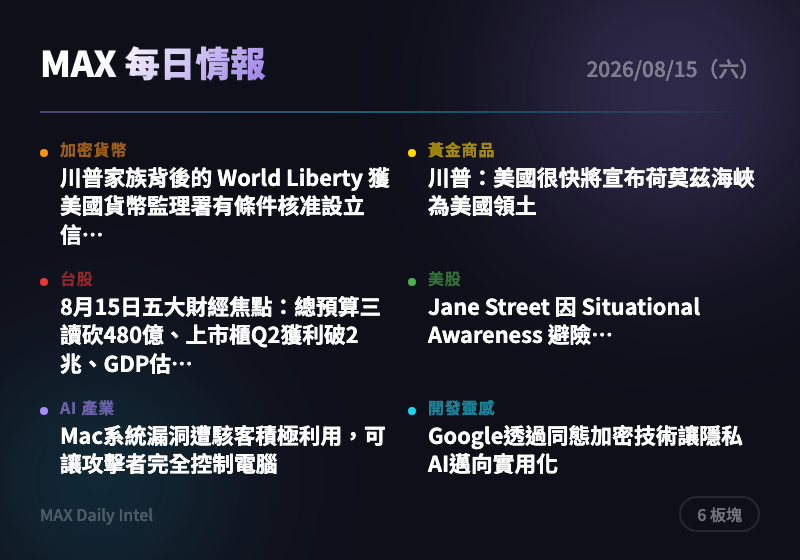
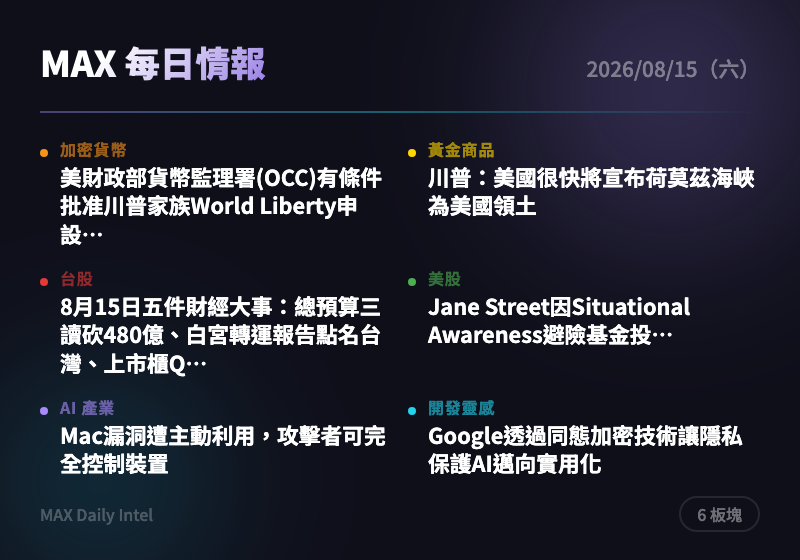
intel: 2026-08-15 每日情報自動生成

diff --git a/docs/2026-08-15.html b/docs/2026-08-15.html
@@ -295,7 +295,7 @@
     <h1>每日情報站</h1>
     <div class="date">2026 年 8 月 15 日（六）</div>
     <div class="stats">
-      <span>11 則情報</span>
+      <span>12 則情報</span>
       <span>7 大板塊</span>
     </div>
   </header>
@@ -318,15 +318,15 @@
     </div>
     <div class="news-card">
       <div class="source">The Block</div>
-      <h3><a href="https://www.theblock.co/news/regulation/2026-08-14-occ-grants-conditional-approval-trump-world-liberty-national-trust-bank-411906" target="_blank" rel="noopener">川普家族背後的 World Liberty 獲美國貨幣監理署有條件核准設立信託銀行</a></h3>
-      <div class="summary">OCC 週五對 Trump 支持的 World Liberty Financial 發出有條件核准，讓其得以成立全國性信託銀行。這是加密貨幣業者首次獲得聯邦銀行牌照，象徵加密與傳統金融監管的融合進一步加深，也凸顯川普政府對加密產業的政策傾斜。建議關注後續正式核准進度及是否引發利益衝突爭議。</div>
-      <div class="tags"><span class="tag">監管</span><span class="tag">川普</span><span class="tag">銀行牌照</span><span class="tag">穩定幣</span></div>
+      <h3><a href="https://www.theblock.co/news/regulation/2026-08-14-occ-grants-conditional-approval-trump-world-liberty-national-trust-bank-411906" target="_blank" rel="noopener">美財政部貨幣監理署(OCC)有條件批准川普家族World Liberty申設全國信託銀行</a></h3>
+      <div class="summary">美國貨幣監理署（OCC）於週五對川普支持的加密貨幣企業World Liberty Financial的全國信託銀行申請給予有條件批准。此舉代表加密貨幣產業首次獲得美國聯邦銀行牌照的重大突破，象徵加密資產與傳統金融體系加速融合，也凸顯川普政府對加密產業的政策傾斜。建議關注後續正式核准進度與利益衝突爭議發展。</div>
+      <div class="tags"><span class="tag">監管</span><span class="tag">加密貨幣</span><span class="tag">川普</span><span class="tag">銀行牌照</span></div>
     </div>
     <div class="news-card">
       <div class="source">The Block</div>
-      <h3><a href="https://www.theblock.co/news/markets/2026-08-14-mizuho-cuts-bitgo-price-target-to-11-but-says-clarity-act-delays-could-prove-advantageous-411878" target="_blank" rel="noopener">瑞穗下調 BitGo 目標價至 11 美元，但稱 Clarity Act 延宕可能反而有利</a></h3>
-      <div class="summary">瑞穗證券將 BitGo 目標價調降，但同時指出美國《Clarity Act》立法延遲反而可能對公司有利。分析師仍視 BitGo 為「高成長、經常性收入」業務，客戶數年增 27%。反映機構對加密託管股評價分歧，但基本面成長趨勢未變。</div>
-      <div class="tags"><span class="tag">加密貨幣</span><span class="tag">託管</span><span class="tag">分析師評等</span><span class="tag">監管</span></div>
+      <h3><a href="https://www.theblock.co/news/markets/2026-08-14-mizuho-cuts-bitgo-price-target-to-11-but-says-clarity-act-delays-could-prove-advantageous-411878" target="_blank" rel="noopener">瑞穗證券下調BitGo目標價至11美元，但稱Clarity法案延遲反而有利</a></h3>
+      <div class="summary">瑞穗證券將BitGo的目標價下修至11美元，但同時指出美國《Clarity法案》立法延遲對其商業模式反而有利。分析師視BitGo為「高成長、經常性收入」企業，客戶數年增27%，顯示機構級加密託管業務仍具成長動能。建議留意監管立法時程對加密託管股評價的影響。</div>
+      <div class="tags"><span class="tag">加密貨幣</span><span class="tag">分析師評等</span><span class="tag">監管</span><span class="tag">機構託管</span></div>
     </div>
   </section>
 
@@ -339,14 +339,14 @@
     <div class="news-card">
       <div class="source">ForexLive</div>
       <h3><a href="https://investinglive.com/news/trump-pretty-soon-will-be-declaring-strait-of-hormuz-territory-of-the-us/" target="_blank" rel="noopener">川普：美國很快將宣布荷莫茲海峽為美國領土</a></h3>
-      <div class="summary">川普表示美國即將宣布荷莫茲海峽為美國領土，並警告伊朗若採取侵略行動將遭受百倍反擊，同時稱封鎖行為「無法阻擋」。此番強硬言論大幅升高中東地緣政治風險，可能推升原油與黃金避險需求。建議留意油價與金價聯動走勢，並提防地緣衝突進一步升級。</div>
-      <div class="tags"><span class="tag">地緣政治</span><span class="tag">原油</span><span class="tag">伊朗</span><span class="tag">避險</span></div>
+      <div class="summary">川普表示美國即將宣布荷莫茲海峽為美國領土，並警告若伊朗採取侵略行動將遭受百倍反擊，強調美國將自行決定船隻通行權，稱封鎖行動「無法阻擋」。此言論大幅升高中東地緣政治風險，直接牽動全球原油供應與運輸安全，是近期推升油價與避險資產（黃金）需求的關鑽變數。建議密切關注美伊局勢升溫對油價與黃金避險買盤的連鎖效應。</div>
+      <div class="tags"><span class="tag">地緣政治</span><span class="tag">原油</span><span class="tag">避險資產</span><span class="tag">中東局勢</span></div>
     </div>
     <div class="news-card">
       <div class="source">ForexLive</div>
       <h3><a href="https://investinglive.com/news/us-august-prelim-umich-consumer-sentiment-51-0-vs-54-5-expected/" target="_blank" rel="noopener">美國8月密西根大學消費者信心初值降至51.0，遠低於預期54.5</a></h3>
-      <div class="summary">密西根大學消費者信心指數大幅不及預期，一年期通膨預期升至4.3%，顯示消費者對物價與經濟前景轉趨悲觀。雖然市場普遍認為該調查已受政治因素干擾、參考價值降低，但通膨預期上升仍可能影響聯準會決策路徑。建議關注後續零售銷售與就業數據以交叉驗證。</div>
-      <div class="tags"><span class="tag">消費者信心</span><span class="tag">通膨</span><span class="tag">聯準會</span><span class="tag">美國經濟</span></div>
+      <div class="summary">美國8月密西根大學消費者信心指數初值僅51.0，大幅不如市場預期的54.5，且低於前值55.2，其中現況與預期分項雙雙下滑，同時1年期通膨預期升至4.3%。此數據顯示消費者對經濟前景轉趨悲觀，儘管市場普遍認為該調查易受政治因素干擾、預測力有限，仍可能影響市場對聯準會政策路徑與黃金避險需求的判斷。建議留意後續零售銷售與通膨數據是否印證消費疲軟趨勢。</div>
+      <div class="tags"><span class="tag">經濟數據</span><span class="tag">消費者信心</span><span class="tag">通膨</span><span class="tag">聯準會</span></div>
     </div>
   </section>
 
@@ -358,15 +358,15 @@
     </div>
     <div class="news-card">
       <div class="source">經濟日報</div>
-      <h3><a href="https://money.udn.com/money/story/5607/9692762" target="_blank" rel="noopener">8月15日五大財經焦點：總預算三讀砍480億、上市櫃Q2獲利破2兆、GDP估上修至11.05%</a></h3>
-      <div class="summary">立法院三讀通過2026年度中央政府總預算並刪減480億元，同時上市櫃公司第2季稅後純益首度突破2兆元、季增三成，主計總處更大幅上修今年經濟成長率至11.05%，創39年新高。多項數據顯示AI熱潮持續帶動台灣經濟與企業獲利同步強勁成長。建議關注財報優異、受惠AI供應鏈的個股後續評價修正空間。</div>
-      <div class="tags"><span class="tag">台股</span><span class="tag">總預算</span><span class="tag">經濟成長</span><span class="tag">AI</span></div>
+      <h3><a href="https://money.udn.com/money/story/5607/9692762" target="_blank" rel="noopener">8月15日五件財經大事：總預算三讀砍480億、白宮轉運報告點名台灣、上市櫃Q2獲利破2兆創高</a></h3>
+      <div class="summary">立法院三讀通過2026年度中央政府總預算，總刪減480億元；白宮發布「轉運大騙局」報告指控台日韓等40餘國協助陸企規避關稅；上市櫃公司Q2稅後純益首度衝破2兆元、季增三成，創EPS新高家數達175家；主計總處大幅上修今年經濟成長率至11.05%、人均GDP達4.5萬美元，創39年新高。多項數據顯示台灣經濟受AI熱潮強力帶動但也面臨對美關稅風險升溫。建議關注白宮轉運報告後續對台美貿易談判的影響，同時留意企業獲利高基期下的評價修正風險。</div>
+      <div class="tags"><span class="tag">台股</span><span class="tag">總預算</span><span class="tag">關稅</span><span class="tag">企業獲利</span></div>
     </div>
     <div class="news-card">
       <div class="source">經濟日報</div>
-      <h3><a href="https://money.udn.com/money/story/5607/9692752" target="_blank" rel="noopener">外資本周狂買2,061億元，力積電獲買超逾31萬張居冠</a></h3>
-      <div class="summary">台股本周雖回落至45,811點、失守46,000點大關，但外資連日買超累計逾2,061億元，力積電成為外資本周買超冠軍，華新、中鋼也獲外資青睞。顯示外資對台灣半導體與傳產股信心回升，法人看好指數可望逐步挑戰前高48,000點。建議關注外資持續回補動能是否延續至下周。</div>
-      <div class="tags"><span class="tag">台股</span><span class="tag">外資</span><span class="tag">半導體</span><span class="tag">資金流向</span></div>
+      <h3><a href="https://money.udn.com/money/story/5607/9692752" target="_blank" rel="noopener">外資本周狂買2,061億元，力積電獲買超31萬張居冠</a></h3>
+      <div class="summary">台股本周三大法人及外資連日買超，累計外資買超金額達2,061億元，其中力積電（6770）獲外資買超31萬張排名第一，華新、中鋼亦擠進外資買超前十大。台股本周上漲1,585點、漲幅3.58%，惟14日在46,000點關卡遇壓拉回下跌210點收45,811點。外資積極回補顯示對台股後市偏多，法人看好指數可望逐步向前波高點48K推進。建議關注外資資金持續性及力積電等半導體記憶體族群的補漲行情。</div>
+      <div class="tags"><span class="tag">台股</span><span class="tag">外資動向</span><span class="tag">半導體</span><span class="tag">資金流向</span></div>
     </div>
   </section>
 
@@ -378,15 +378,15 @@
     </div>
     <div class="news-card">
       <div class="source">WSJ Markets</div>
-      <h3><a href="https://www.wsj.com/finance/investing/jane-street-suffers-loss-of-about-15-billion-due-to-troubles-at-situation-awareness-9be40c51?mod=rss_markets_main" target="_blank" rel="noopener">Jane Street 因 Situational Awareness 避險基金失利，單月虧損約150億美元</a></h3>
-      <div class="summary">知名量化交易公司 Jane Street 因投資 Leopold Aschenbrenner 旗下避險基金 Situational Awareness 押注失利，導致7月出現史上最差單月表現，損失約150億美元。此事件凸顯即便頂尖量化機構也可能因集中押注特定題材（如AI相關）而承受巨大風險。建議關注是否引發連鎖流動性或保證金追繳效應。</div>
-      <div class="tags"><span class="tag">對沖基金</span><span class="tag">量化交易</span><span class="tag">AI</span><span class="tag">虧損</span></div>
+      <h3><a href="https://www.wsj.com/finance/investing/jane-street-suffers-loss-of-about-15-billion-due-to-troubles-at-situation-awareness-9be40c51?mod=rss_markets_main" target="_blank" rel="noopener">Jane Street因Situational Awareness避險基金投資失利，單月虧損近150億美元</a></h3>
+      <div class="summary">頂尖量化交易公司Jane Street因對Leopold Aschenbrenner旗下避險基金Situational Awareness的投資失利，7月出現史上最差單月表現，損失規模高達約150億美元。此事件顯示即便是華爾街最頂尖的量化交易機構，在AI相關題材投資上也可能面臨鉅額虧損，凸顯市場對AI概念投資過熱的潛在風險。建議關注事件是否引發更廣泛的避險基金去槓桿效應及AI類股資金流動變化。</div>
+      <div class="tags"><span class="tag">對沖基金</span><span class="tag">AI</span><span class="tag">鉅額虧損</span><span class="tag">量化交易</span></div>
     </div>
     <div class="news-card">
       <div class="source">WSJ Markets</div>
-      <h3><a href="https://www.wsj.com/finance/stocks/berkshire-adds-to-alphabet-stake-buys-homebuilders-and-exits-constellation-746a5bdc?mod=rss_markets_main" target="_blank" rel="noopener">波克夏Q2加碼Alphabet、買進建商股並出清Constellation Energy持股</a></h3>
-      <div class="summary">波克夏最新13F揭露，執行長Greg Abel在第二季加碼Google母公司Alphabet、買進房屋建商股，同時降低金融股部位並全數出清Constellation Energy。此舉反映波克夏對美國房市與AI巨頭前景的看法轉趨正面，同時對能源類股保持謹慎。建議關注波克夏後續持股調整是否預示市場輪動方向。</div>
-      <div class="tags"><span class="tag">波克夏</span><span class="tag">13F</span><span class="tag">Alphabet</span><span class="tag">房市</span></div>
+      <h3><a href="https://www.wsj.com/finance/stocks/berkshire-adds-to-alphabet-stake-buys-homebuilders-and-exits-constellation-746a5bdc?mod=rss_markets_main" target="_blank" rel="noopener">波克夏加碼Alphabet持股，買進建商股並出清Constellation Energy</a></h3>
+      <div class="summary">波克夏海瑟威（Berkshire Hathaway）在最新13F持股報告中加碼Alphabet（Google母公司）股票，同時買進多檔建商股展現對美國房市的樂觀看法，並清倉出售Constellation Energy持股。此為執行長Greg Abel接掌選股決策後的重要動向，同時該公司也減碼了金融類股部位，顯示投資組合配置正在轉向。建議關注波克夏對科技股與房市類股佈局變化，作為觀察機構資金風向的重要指標。</div>
+      <div class="tags"><span class="tag">波克夏</span><span class="tag">機構持股</span><span class="tag">房市</span><span class="tag">科技股</span></div>
     </div>
   </section>
 
@@ -398,15 +398,15 @@
     </div>
     <div class="news-card">
       <div class="source">Ars Technica AI</div>
-      <h3><a href="https://arstechnica.com/security/2026/08/vulnerability-giving-attackers-full-control-of-macs-is-under-active-exploitation/" target="_blank" rel="noopener">Mac系統漏洞遭駭客積極利用，可讓攻擊者完全控制電腦</a></h3>
-      <div class="summary">一個存在於螢幕共享功能的安全漏洞正遭到駭客積極利用，讓遠端攻擊者無需密碼即可登入受害者的Mac電腦。此漏洞風險極高，因為攻擊者能取得系統完全控制權。建議Mac用戶儘速確認系統更新狀態並停用非必要的螢幕共享功能。</div>
+      <h3><a href="https://arstechnica.com/security/2026/08/vulnerability-giving-attackers-full-control-of-macs-is-under-active-exploitation/" target="_blank" rel="noopener">Mac漏洞遭主動利用，攻擊者可完全控制裝置</a></h3>
+      <div class="summary">一項存在於Mac螢幕共享功能的安全漏洞正遭到駭客主動利用，讓遠端攻擊者無需密碼即可登入並完全控制受害裝置。此漏洞屬於嚴重安全性風險，目前已確認有實際攻擊案例發生，對企業及個人Mac用戶構成立即威脅。建議Mac用戶儘速檢查系統更新並停用不必要的螢幕共享功能，待官方修補程式釋出後立即安裝。</div>
       <div class="tags"><span class="tag">資安</span><span class="tag">蘋果</span><span class="tag">漏洞</span><span class="tag">駭客攻擊</span></div>
     </div>
     <div class="news-card">
       <div class="source">The Verge AI</div>
-      <h3><a href="https://www.theverge.com/tech/980416/google-gemini-ai-watermarks-removal" target="_blank" rel="noopener">Google Gemini 現可關閉AI生成內容的可見浮水印</a></h3>
-      <div class="summary">Google宣布用戶現可在Gemini與AI影片工具Flow中關閉圖片、影片與音樂的可見浮水印設定。此舉引發外界對AI生成內容可辨識性下降、深偽風險上升的疑慮，但Google強調隱形浮水印技術不受影響仍可用於辨識AI生成內容。建議留意此功能對內容真實性驗證與監管合規的潛在影響。</div>
-      <div class="tags"><span class="tag">Google</span><span class="tag">AI生成內容</span><span class="tag">浮水印</span><span class="tag">深偽</span></div>
+      <h3><a href="https://www.theverge.com/tech/980416/google-gemini-ai-watermarks-removal" target="_blank" rel="noopener">Google Gemini新增功能，用戶可關閉AI生成內容的可見浮水印</a></h3>
+      <div class="summary">Google宣布用戶現在可以在Gemini及AI影片生成工具Flow中，透過新的「媒體浮水印」設定選項，關閉AI生成圖片、影片與音樂右下角顯示的「星光」浮水印標記。需注意的是，關閉可見浮水印並不影響用於辨識AI生成內容的隱形浮水印機制，因此內容仍可被技術追溯來源。此功能反映AI廠商在滿足用戶對輸出內容美觀需求，與維持內容可追溯性之間的平衡策略。建議關注此舉是否會助長AI生成內容在社群平台上被誤認為真人創作的爭議。</div>
+      <div class="tags"><span class="tag">AI</span><span class="tag">Google</span><span class="tag">浮水印</span><span class="tag">內容辨識</span></div>
     </div>
   </section>
 
@@ -414,13 +414,19 @@
     <div class="sector-header">
       <div class="indicator" style="background:#00bcd4"></div>
       <h2>&#x1f6e0;&#xfe0f; 開發靈感</h2>
-      <span class="badge">1 則</span>
+      <span class="badge">2 則</span>
     </div>
     <div class="news-card">
       <div class="source">Hacker News Best</div>
-      <h3><a href="https://blog.google/security/how-google-is-making-private-ai-practical-with-homomorphic-encryption/" target="_blank" rel="noopener">Google透過同態加密技術讓隱私AI邁向實用化</a></h3>
-      <div class="summary">Google發布技術文章介紹如何透過同態加密（homomorphic encryption）讓AI模型能在加密資料上直接運算，無需解密即可完成推論，藉此大幅提升隱私保護。該文章在Hacker News獲得230點及141則留言的高度關注，顯示開發者社群對隱私運算技術的高度興趣。建議關注此技術是否能實際落地於雲端AI服務，降低資料外洩風險。</div>
-      <div class="tags"><span class="tag">隱私運算</span><span class="tag">加密技術</span><span class="tag">AI</span><span class="tag">Google</span></div>
+      <h3><a href="https://blog.google/security/how-google-is-making-private-ai-practical-with-homomorphic-encryption/" target="_blank" rel="noopener">Google透過同態加密技術讓隱私保護AI邁向實用化</a></h3>
+      <div class="summary">Google發布部落格文章介紹如何運用同態加密（Homomorphic Encryption）技術，讓AI能在不解密資料的情況下直接對加密資料進行運算，使隱私保護型AI真正走向實用階段。該文章在Hacker News獲得230點讚及141則討論，顯示開發者社群對此技術突破高度關注。此技術若能大規模商用，將對醫療、金融等高敏感資料領域的AI應用產生深遠影響。建議關注同態加密的運算效能瓶頸是否已獲實質改善，以及後續是否有具體產品落地案例。</div>
+      <div class="tags"><span class="tag">AI</span><span class="tag">隱私保護</span><span class="tag">加密技術</span><span class="tag">Google</span></div>
+    </div>
+    <div class="news-card">
+      <div class="source">Product Hunt</div>
+      <h3><a href="https://www.producthunt.com/products/suno" target="_blank" rel="noopener">Suno Studio 2.0發布：瀏覽器內生成式數位音樂工作站</a></h3>
+      <div class="summary">AI音樂生成公司Suno推出Studio 2.0重大升級，加入用戶最期待的MIDI支援功能，使其更接近真正的數位音樂工作站（DAW），而非單純的AI音訊編輯工具。此更新代表生成式AI音樂工具正加速向專業音樂製作領域靠攏，可能對傳統DAW軟體市場帶來競爭壓力。建議關注音樂創作者社群對MIDI整合實際使用體驗的回饋。</div>
+      <div class="tags"><span class="tag">AI</span><span class="tag">音樂生成</span><span class="tag">產品發布</span><span class="tag">開發工具</span></div>
     </div>
   </section>
 

diff --git a/docs/cards/2026-08-15-card.html b/docs/cards/2026-08-15-card.html
@@ -23,11 +23,11 @@ body{width:400px;height:280px;font-family:'Noto Sans TC',-apple-system,sans-seri
 <div class="content">
 <div class="top-row"><span class="title">MAX 每日情報</span><span class="date">2026/08/15（六）</span></div>
 <div class="divider"></div>
-<div class="grid"><div class="cell"><div class="dot" style="background:#f7931a"></div><div><div class="label" style="color:#f7931a">加密貨幣</div><div class="headline">川普家族背後的 World Liberty 獲美國貨幣監理署有條件核准設立信…</div></div></div>
+<div class="grid"><div class="cell"><div class="dot" style="background:#f7931a"></div><div><div class="label" style="color:#f7931a">加密貨幣</div><div class="headline">美財政部貨幣監理署(OCC)有條件批准川普家族World Liberty申設…</div></div></div>
 <div class="cell"><div class="dot" style="background:#ffd700"></div><div><div class="label" style="color:#ffd700">黃金商品</div><div class="headline">川普：美國很快將宣布荷莫茲海峽為美國領土</div></div></div>
-<div class="cell"><div class="dot" style="background:#e53935"></div><div><div class="label" style="color:#e53935">台股</div><div class="headline">8月15日五大財經焦點：總預算三讀砍480億、上市櫃Q2獲利破2兆、GDP估…</div></div></div>
-<div class="cell"><div class="dot" style="background:#4caf50"></div><div><div class="label" style="color:#4caf50">美股</div><div class="headline">Jane Street 因 Situational Awareness 避險…</div></div></div>
-<div class="cell"><div class="dot" style="background:#a78bfa"></div><div><div class="label" style="color:#a78bfa">AI 產業</div><div class="headline">Mac系統漏洞遭駭客積極利用，可讓攻擊者完全控制電腦</div></div></div>
-<div class="cell"><div class="dot" style="background:#22d3ee"></div><div><div class="label" style="color:#22d3ee">開發靈感</div><div class="headline">Google透過同態加密技術讓隱私AI邁向實用化</div></div></div></div>
+<div class="cell"><div class="dot" style="background:#e53935"></div><div><div class="label" style="color:#e53935">台股</div><div class="headline">8月15日五件財經大事：總預算三讀砍480億、白宮轉運報告點名台灣、上市櫃Q…</div></div></div>
+<div class="cell"><div class="dot" style="background:#4caf50"></div><div><div class="label" style="color:#4caf50">美股</div><div class="headline">Jane Street因Situational Awareness避險基金投…</div></div></div>
+<div class="cell"><div class="dot" style="background:#a78bfa"></div><div><div class="label" style="color:#a78bfa">AI 產業</div><div class="headline">Mac漏洞遭主動利用，攻擊者可完全控制裝置</div></div></div>
+<div class="cell"><div class="dot" style="background:#22d3ee"></div><div><div class="label" style="color:#22d3ee">開發靈感</div><div class="headline">Google透過同態加密技術讓隱私保護AI邁向實用化</div></div></div></div>
 <div class="bottom-row"><span class="url">MAX Daily Intel</span><span class="badge">6 板塊</span></div>
 </div></body></html>

diff --git a/docs/index.html b/docs/index.html
@@ -151,7 +151,7 @@
     <span>&#x1f6e0;&#xfe0f; 開發靈感</span>
   </div>
 
-  <ul class="issue-list">    <li><a class="issue-card" href="2026-08-15.html"><img src="cards/2026-08-15.png" alt="2026-08-15 每日情報摘要" loading="lazy"><div class="info"><span class="date">2026/08/15（六）</span><span class="meta">11 則情報</span></div></a></li>
+  <ul class="issue-list">    <li><a class="issue-card" href="2026-08-15.html"><img src="cards/2026-08-15.png" alt="2026-08-15 每日情報摘要" loading="lazy"><div class="info"><span class="date">2026/08/15（六）</span><span class="meta">12 則情報</span></div></a></li>
     <li><a class="issue-card" href="2026-08-14.html"><img src="cards/2026-08-14.png" alt="2026-08-14 每日情報摘要" loading="lazy"><div class="info"><span class="date">2026/08/14（五）</span><span class="meta">12 則情報</span></div></a></li>
     <li><a class="issue-card" href="2026-08-13.html"><img src="cards/2026-08-13.png" alt="2026-08-13 每日情報摘要" loading="lazy"><div class="info"><span class="date">2026/08/13（四）</span><span class="meta">12 則情報</span></div></a></li>
     <li><a class="issue-card" href="2026-08-12.html"><img src="cards/2026-08-12.png" alt="2026-08-12 每日情報摘要" loading="lazy"><div class="info"><span class="date">2026/08/12（三）</span><span class="meta">12 則情報</span></div></a></li>
